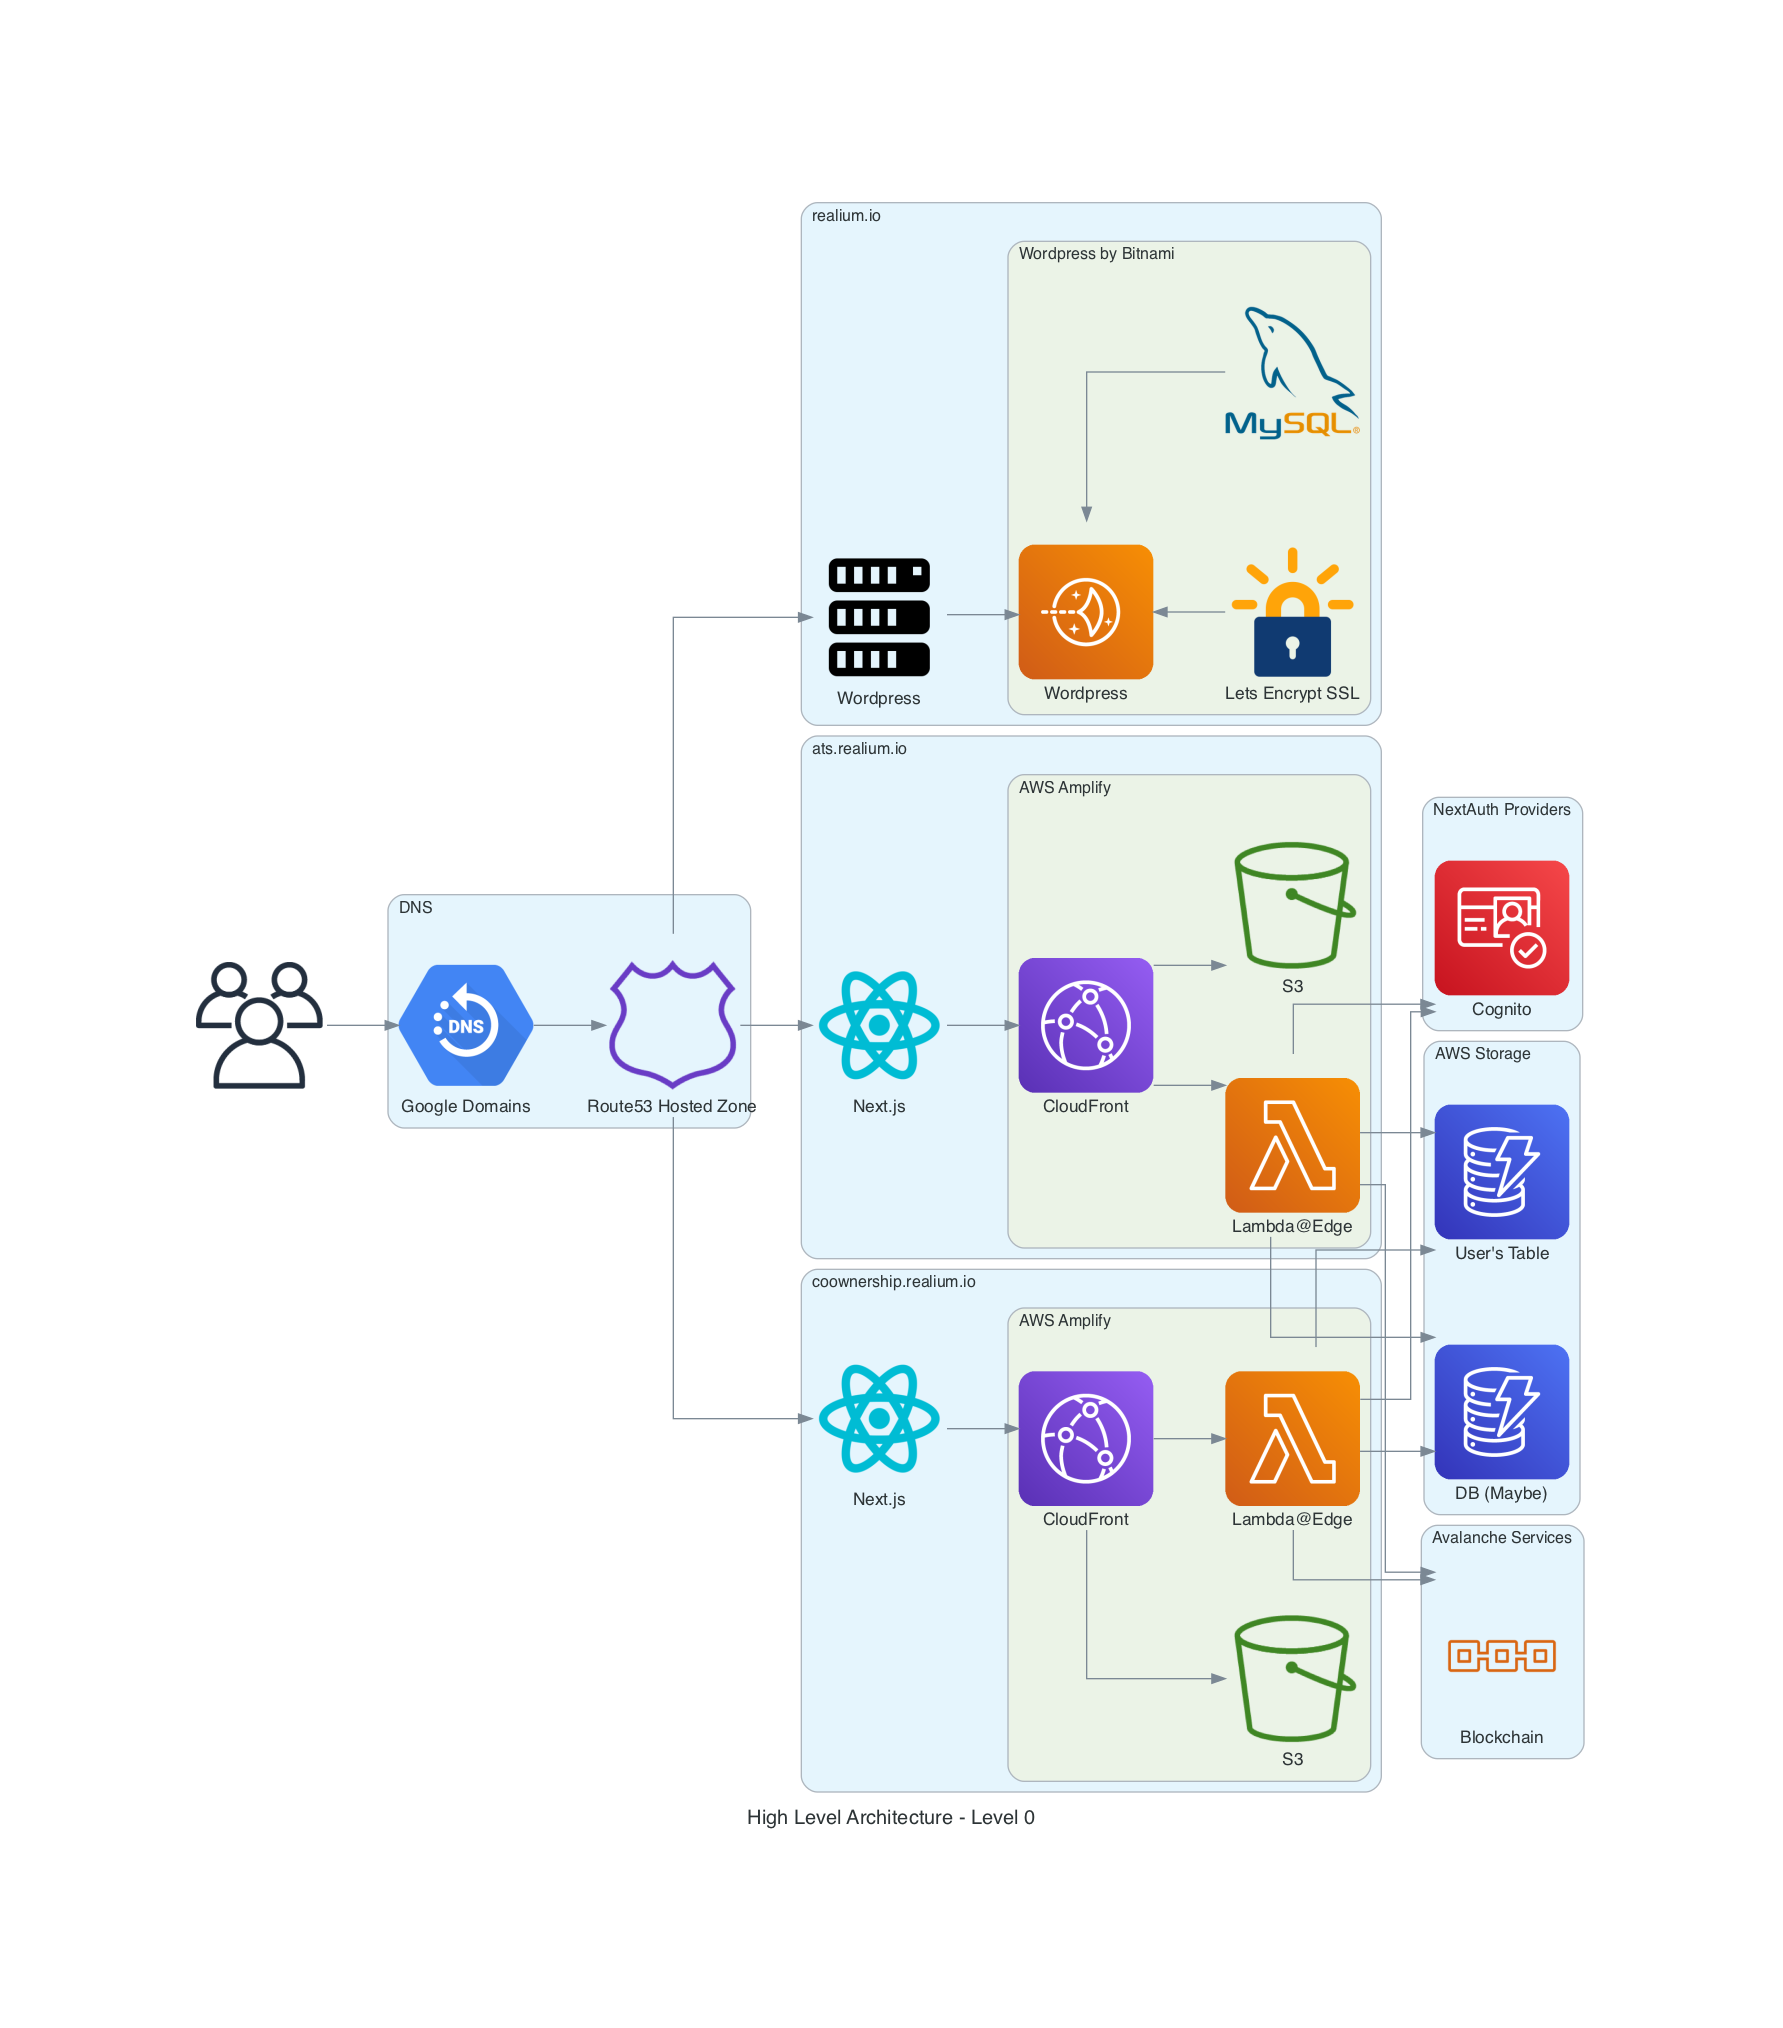
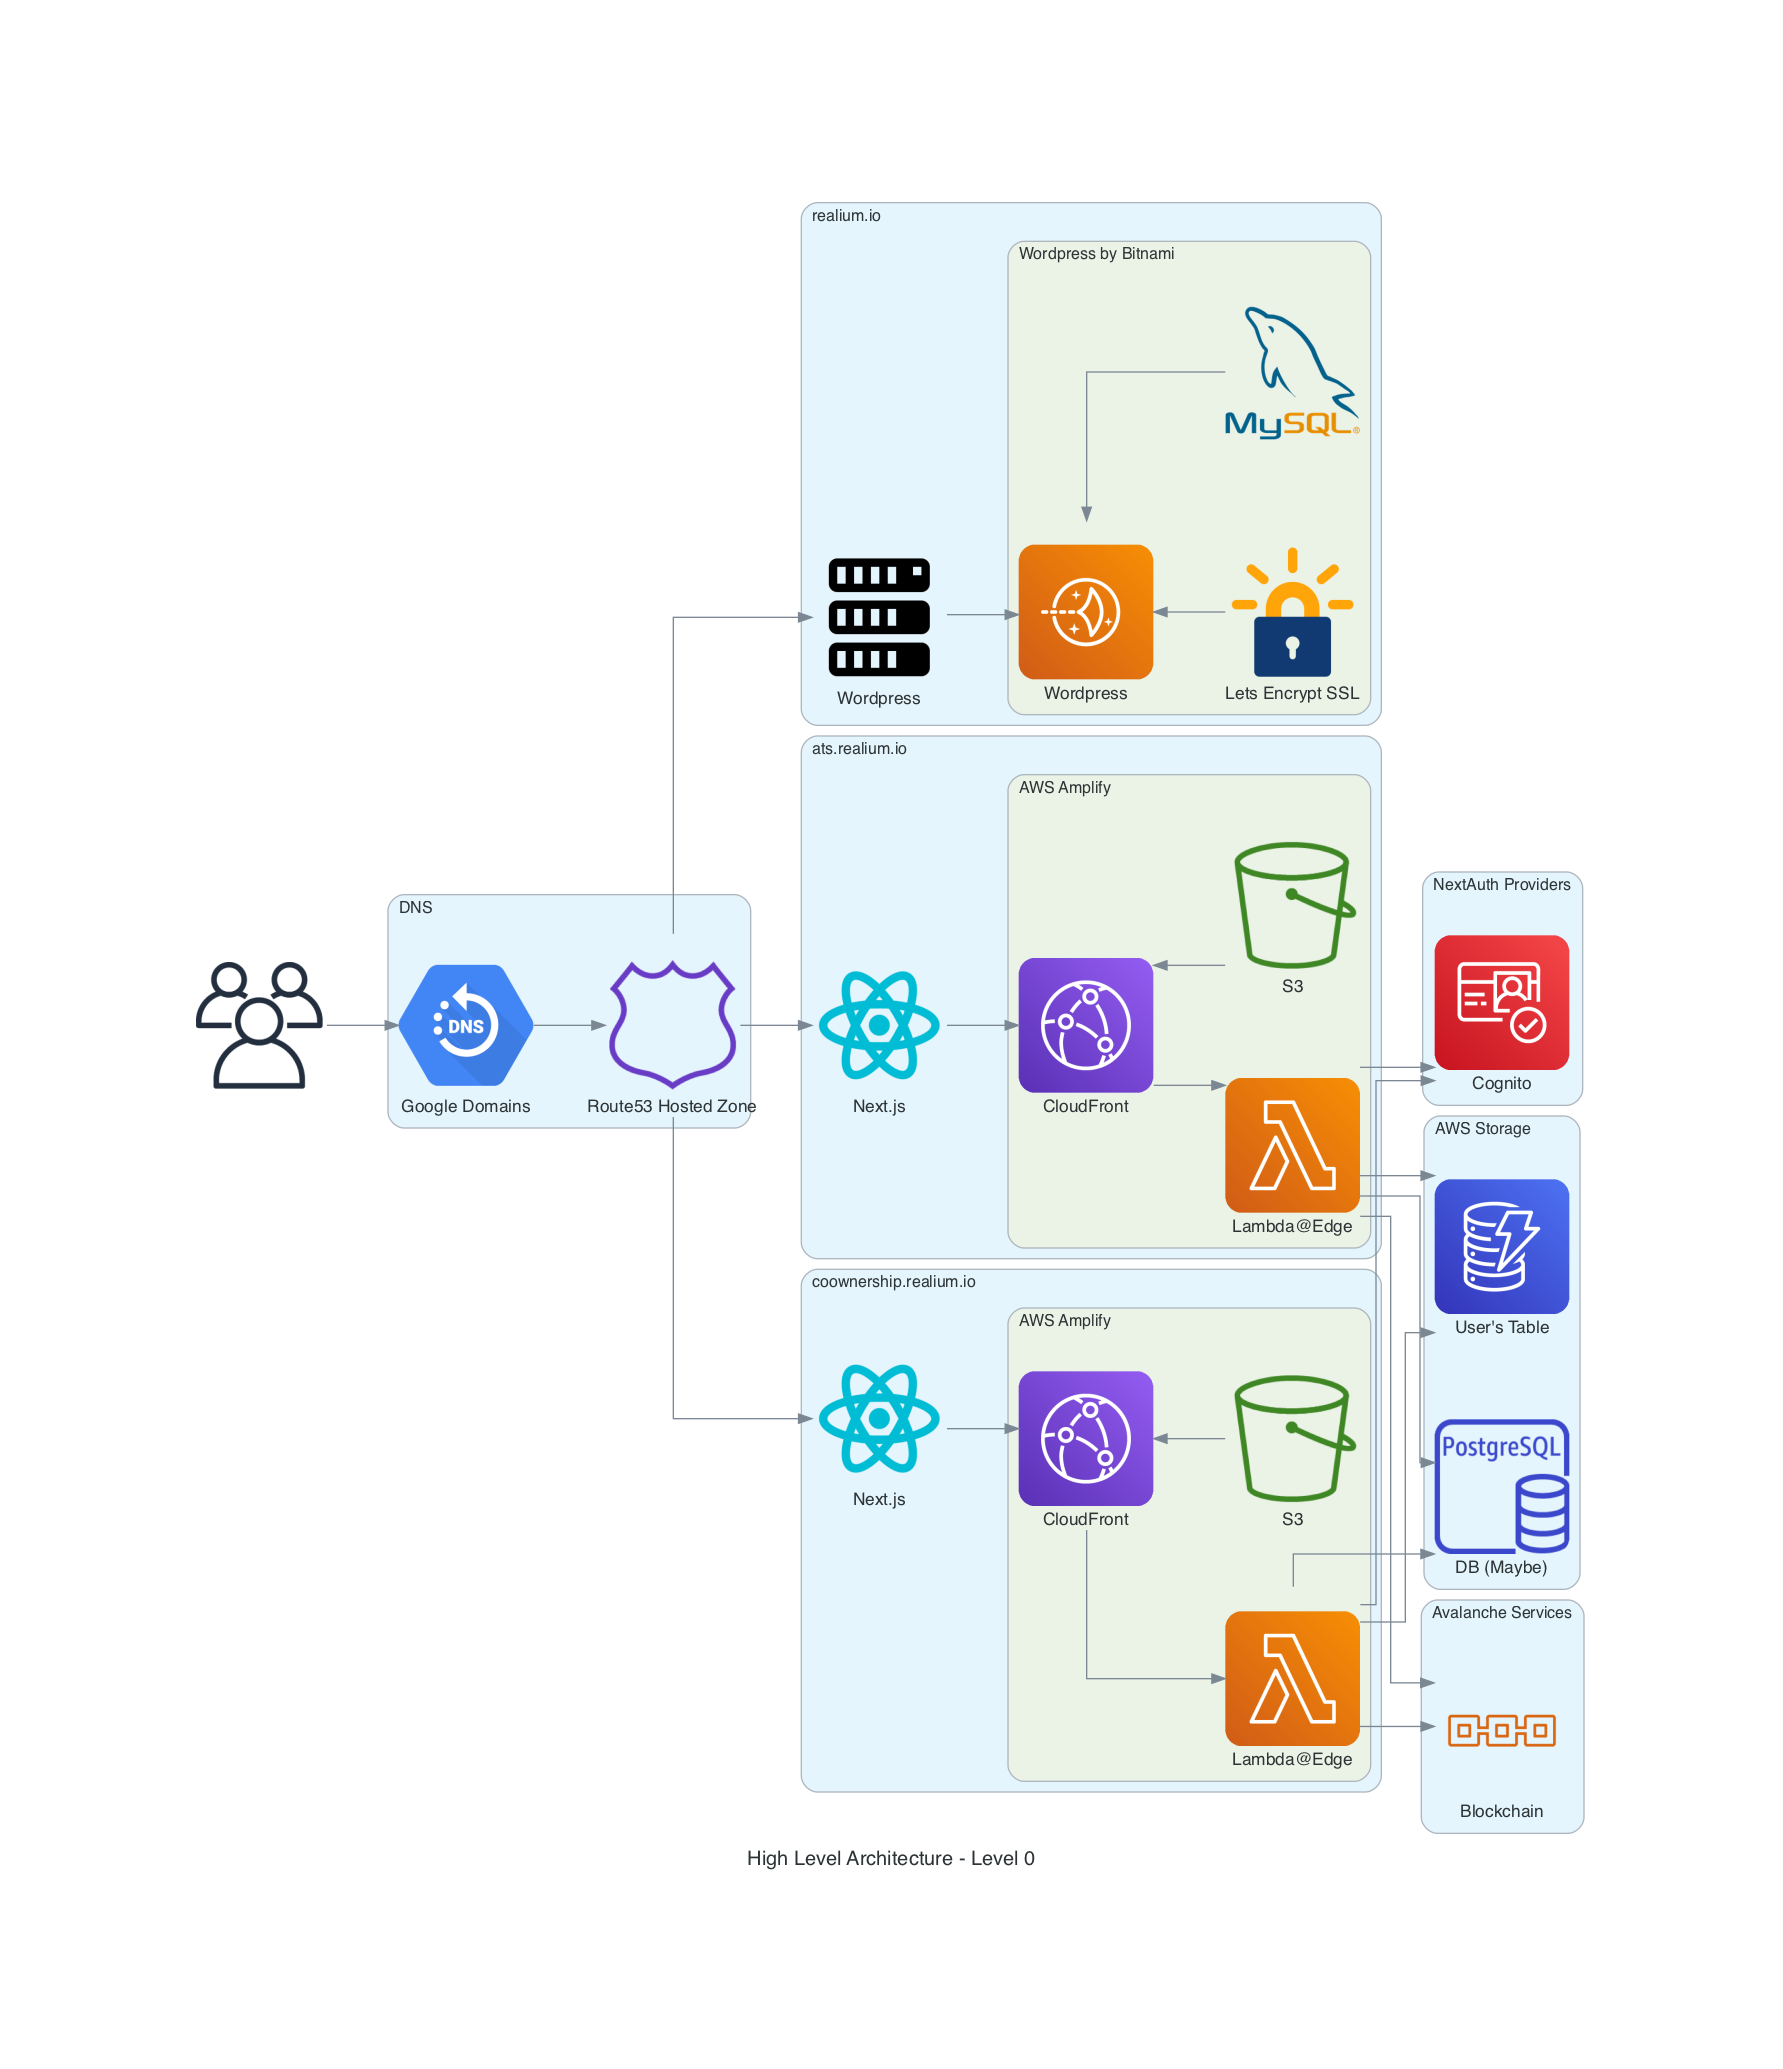
update new hla

diff --git a/src/new/HLA.py b/src/new/HLA.py
@@ -46,10 +46,8 @@ with Diagram("High Level Architecture - Level 0"):
             co_functions = Lambda("Lambda@Edge")
             co_s3 = SimpleStorageServiceS3Bucket("S3")
 
-            co_cf >> [
-                co_s3,
-                co_functions
-            ]
+            co_cf >> co_functions,
+            co_cf << co_s3
 
         co >> co_cf
 
@@ -60,10 +58,8 @@ with Diagram("High Level Architecture - Level 0"):
             ats_functions = Lambda("Lambda@Edge")
             ats_s3 = SimpleStorageServiceS3Bucket("S3")
 
-            ats_cf >> [
-                ats_functions,
-                ats_s3
-            ]
+            ats_cf >> ats_functions,
+            ats_cf << ats_s3
 
         ats >> ats_cf
 
@@ -72,7 +68,7 @@ with Diagram("High Level Architecture - Level 0"):
 
     with Cluster("AWS Storage"):
         user_table = Dynamodb("User's Table")
-        relational = Dynamodb("DB (Maybe)")
+        relational = RDSPostgresqlInstance("DB (Maybe)")
     
     with Cluster("Avalanche Services"):
         avalanche = BlockchainResource("Blockchain")
